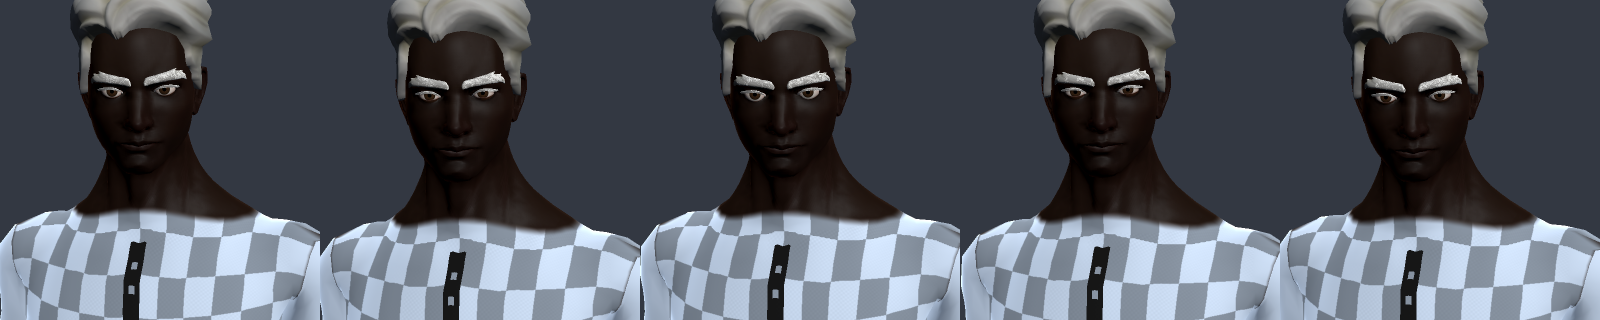
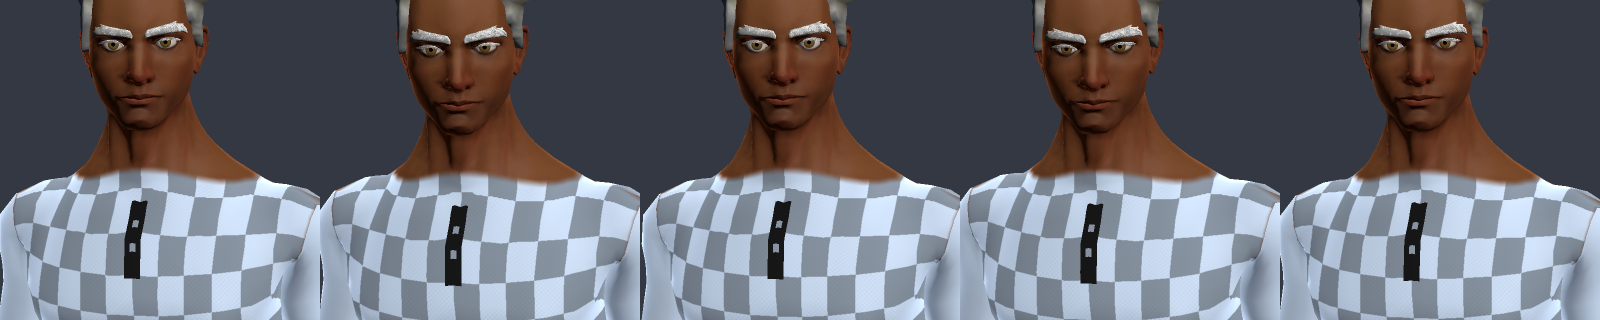
Personalización: color de ojos, más tonos de piel, gafas redondas y deportivas, pendientes y cadena
Claude-Session: https://claude.ai/code/session_019vFD1r5h8o4qeHRJxKM5d9

diff --git a/dinastia-godot/PLAN_DE_RUTA.md b/dinastia-godot/PLAN_DE_RUTA.md
@@ -62,8 +62,9 @@ sensación de progreso. Propuesta: hacerlo **opcional** en Ajustes («Todo abier
 - [x] Mismo estilo de diálogo en el estadio (personal, portero, ascensor, decorar). Interiores: semana 6 (aún no hablan).
 - [x] Menos músculo en futbolistas (peatones: pendiente, por coste por fotograma).
 - [x] Tutorial: negrita real (las letras se montaban).
-- [ ] Expresiones: gestos de cara (sonrisa, enfado, sorpresa) en diálogos y celebraciones.
-- [ ] Personalización: más ropa, peinados de la biblioteca, tatuajes simples, relojes y gafas.
+- [x] Expresiones: parpadeo y gestos de ojos (alegre, sorpresa, enfado, triste) en el DT, el personal del estadio y el goleador. Ojos reales también con la cara clásica.
+- [x] Personalización: color de ojos, 14 tonos de piel, gafas redondas y deportivas, pendientes, cadena. Pendiente: más ropa y tatuajes.
+- [x] Ciudad sin textos fijos: ⚙ Ajustes de la ciudad, tutorial propio y móvil en la mano con la velocidad.
 
 ### Semana 2 (20-10 → 26-10) — Partido I: táctica en vivo
 - [ ] Panel en pausa y atajos en vivo: formación, mentalidad (defensiva ↔ ofensiva), presión, línea defensiva.
